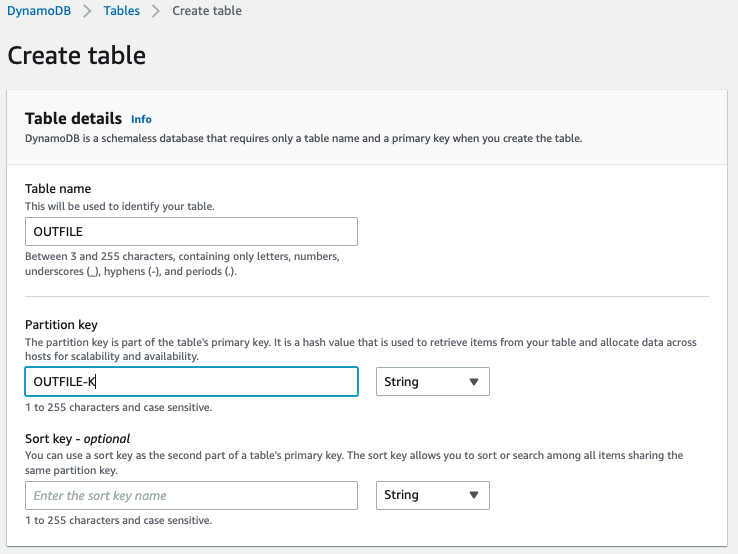
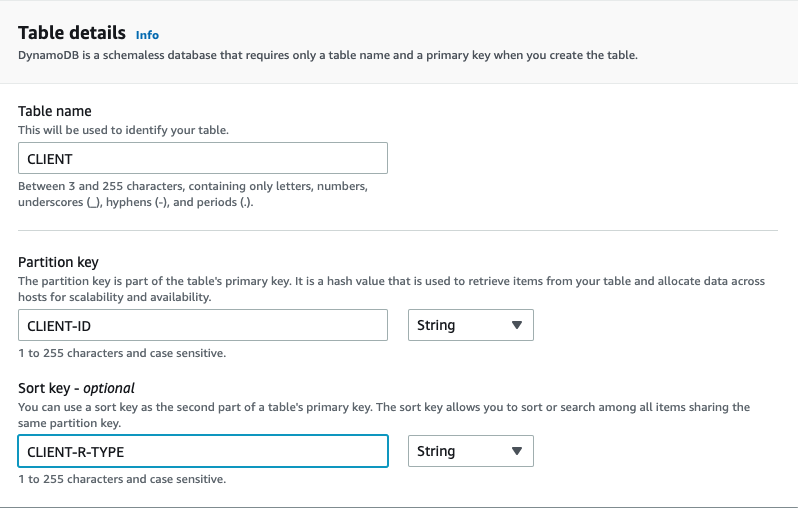
dynamodb load regession test

Changed region(s): [[0.0, 0.1772, 0.9973, 1.0], [0.0, 0.0, 0.8103, 0.1181]]

diff --git a/datasource.py b/datasource.py
@@ -60,13 +60,14 @@ class item:
 
         if self.Type ==  'file': self.Record['row'] = []
 
-    def addField(self, id, type, partkey, partkname, sortkey, sortkname, value):
+    def addField(self, id, type, partkey, partkname, sortkey, sortkname, value, addempty = False):
         
         if self.Type == 'ddb' or self.Type == 'sqs':
 
             if not partkey and not sortkey: 
-                self.Record[id] = {}
-                self.Record[id]['S' if type == "ch" else 'N'] = value
+                if value != '' or addempty:
+                    self.Record[id] = {}
+                    self.Record[id]['S' if type == "ch" else 'N'] = value
             elif not partkey:
                 if sortkname in self.Record:
                     self.Record[sortkname]['S'] = self.Record[sortkname]['S'] + "|" + value

diff --git a/README.md b/README.md
@@ -99,16 +99,12 @@ The [COBKS05.cpy](LegacyReference/COBKS05.cpy) is provided in [LegacyReference](
 1. Run the `parse_copybook_to_json.py` script to parse the copybook file provided in `sample-data`.
 
 ```
-python3      parse_copybook_to_json.py     \
--copybook    LegacyReference/COBKS05.cpy   \
--output      sample-data/COBKS05-list.json \
--dict        sample-data/COBKS05-dict.json \
--ebcdic      sample-data/CLIENT.EBCDIC.txt \
--ascii       sample-data/CLIENT.ASCII.txt  \
--part-k-len  4                             \
--part-k-name ID                            \
--sort-k-len  2                             \
--sort-k-name TYPE                          \
+python3   parse_copybook_to_json.py     \
+-copybook LegacyReference/COBKS05.cpy   \
+-output   sample-data/COBKS05-list.json \
+-dict     sample-data/COBKS05-dict.json \
+-ebcdic   sample-data/CLIENT.EBCDIC.txt \
+-ascii    sample-data/CLIENT.ASCII.txt  \
 -print    20
 ```
 
@@ -135,7 +131,7 @@ python3      parse_copybook_to_json.py     \
 
 The parameters above will inform the `extract_ebcdic_to_ascii.py` script that records having "0002" hexadecimal value between its 5th and 6th bytes must be converted through the layout specified in "transf1" layout, whereas records that contain "0000" at the same position will be extracted with the "transf2" layout.
 
-The result of the change above must be a file like [COBKS05-rules.json](sample-data/COBKS05-rules.json).
+The result of the change above must produce a file like [COBKS05-rules.json](sample-data/COBKS05-rules.json).
 
 3. Run `extract_ebcdic_to_ascii.py`to extract the `CLIENT.EBCDIC.txt` into an ASCII file.
 
@@ -157,30 +153,53 @@ python3 extract_ebcdic_to_ascii.py -local-json sample-data/COBKS05-list.json
 
 Run the `parse_copybook_to_json.py` script to parse the copybook file provided in `sample-data`.
 
- 1. Inform `ddb` as the value the `-output-type` value.
- 2. Inform the name of the DynamoDB table (created before) name as the `-ascii`value.
- 3. Inform the name of the DynamoDB table key name as the `-keyname` value.
- 4. Inform the length of the key of the ebcdic input file as the `-keylen` value.
+ 1. Inform `ddb` on `-output-type`.
+ 2. Inform the DynamoDB table name (created before) on `-ascii`.
+ 3. Inform the DynamoDB table partition key name on `-part-k-name`.
+ 4. Inform the DynamoDB table partition key size (as it is in the EBCDIC file) on `-part-k-len`.
+ 5. Inform the DynamoDB table sort key name on `-sort-k-name`.
+ 6. Inform the DynamoDB table sort key size (as it is in the EBCDIC file) on `-sort-k-len`.
 
 ```
-python3      parse_copybook_to_json.py           \
--copybook    LegacyReference/COBPACK2.cpy        \
--output      sample-data/cobpack2-list-ddb.json  \
--ebcdic      sample-data/COBPACK.OUTFILE.txt     \
--ascii       OUTFILE                             \
--keyname     OUTFILE-K                           \
--print       1000                                \
--keylen      19                                  \
--output-type ddb                                 \
--req-size    25
+python3      parse_copybook_to_json.py     \
+-copybook    LegacyReference/COBKS05.cpy   \
+-output      sample-data/COBKS05-ddb.json \
+-ebcdic      sample-data/CLIENT.EBCDIC.txt \
+-ascii       CLIENT                        \
+-part-k-len  4                             \
+-part-k-name CLIENT-ID                     \
+-sort-k-len  2                             \
+-sort-k-name CLIENT-R-TYPE                 \
+-output-type ddb                           \
+-print    20
+```
+### Set the transformatiom rules
+
+The step above will generate the [COBKS05-ddb.json](sample-data/COBKS05-ddb.json) with empty transformation rules: `"transf-rule"=[],`. Replace the transformation rule with the content bellow and save the `COBKS05-list.json`:
+
+```
+ "transf-rule": [
+        {
+            "offset": 4,
+            "size": 2,
+            "hex": "0002",
+            "transf": "transf1"
+        },
+        {
+            "offset": 4,
+            "size": 2,
+            "hex": "0000",
+            "transf": "transf2"
+        }
+    ],
 ```
 
-### Load
+### Load the file
 
-1. Run `extract_ebcdic_to_ascii.py`to extract the `COBPACK.OUTFILE.txt` and load into the `OUTFILE` Dynamodb table in the ASCII encoding.
+1. Run `extract_ebcdic_to_ascii.py`to extract the [CLIENT.EBCDIC.txt](sample-data/CLIENT.EBCDIC.txt) and load into the `CLIENT` Dynamodb table in the ASCII encoding.
 
 ```
-python3 extract_ebcdic_to_ascii.py -local-json sample-data/cobpack2-list-ddb.json
+python3 extract_ebcdic_to_ascii.py -local-json sample-data/COBKS05-ddb.json
 ```
 
 ## Load a DymamoDB table from s3
